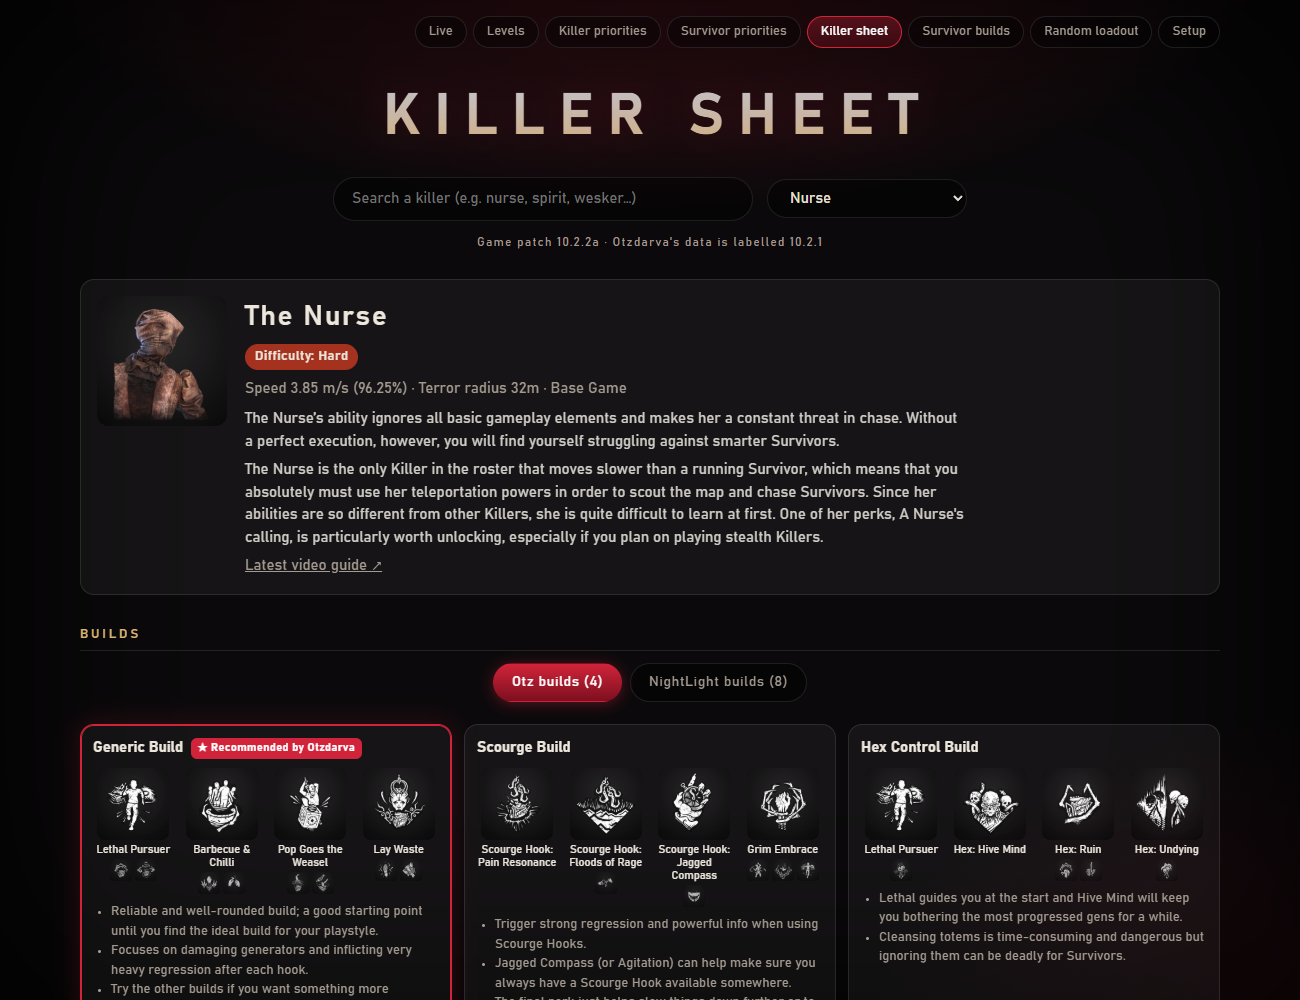
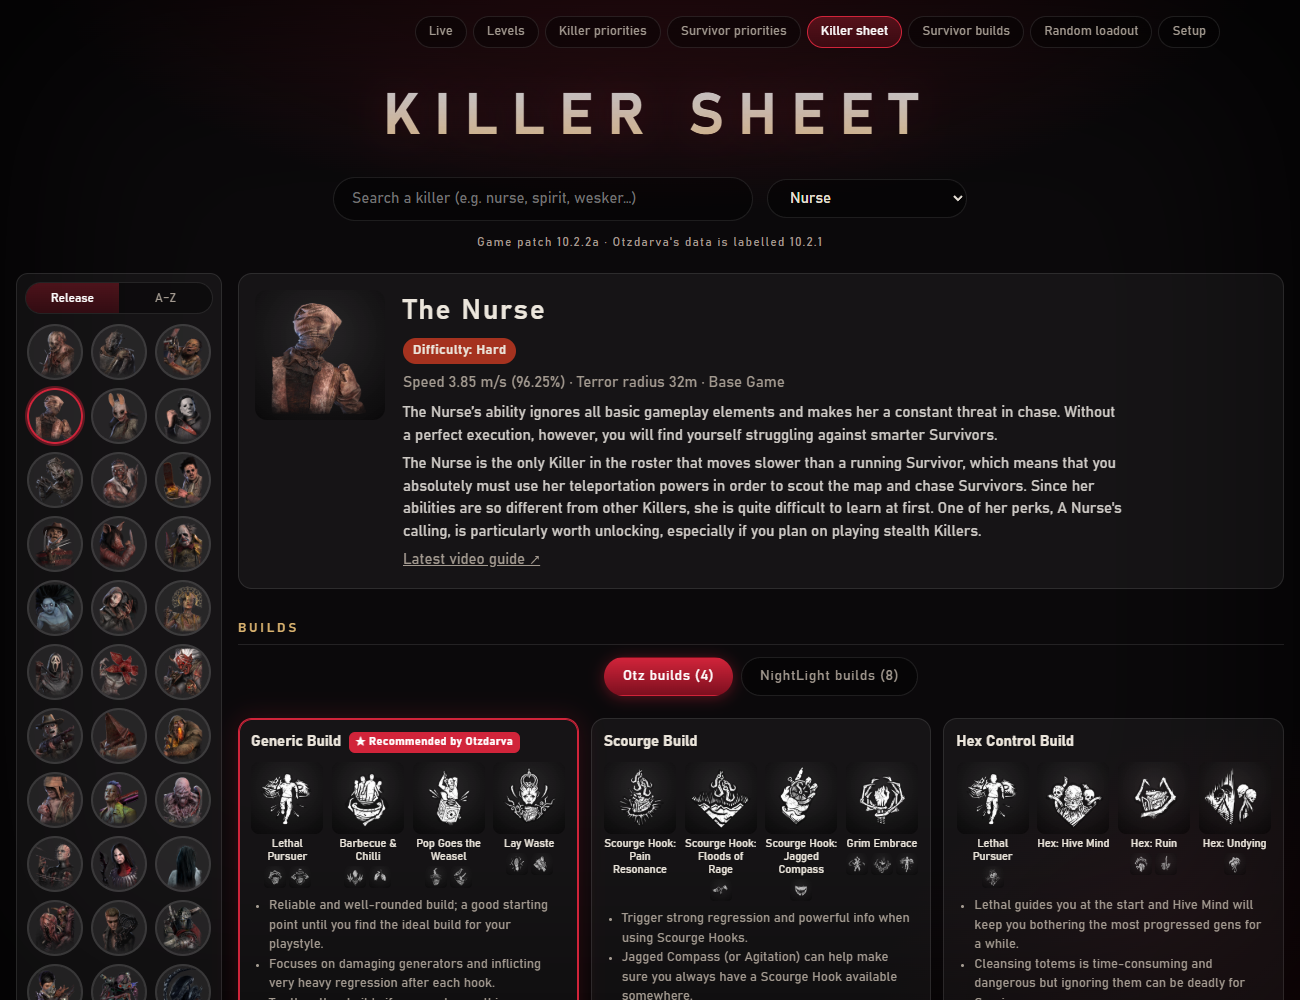
Killer sheet: sticky column of killer portraits and a sort switch
A column of killer heads stays on the left while the sheet scrolls (three per row,
click to open a killer), with a Release date / A-Z switch that also orders the
drop-down list; the choice is remembered. Under 900px the column becomes a
horizontally scrolling row. Screenshot refreshed.

Changed region(s): [[0.0, 0.279, 0.9846, 1.0], [0.1846, 0.62, 0.2462, 0.651]]

diff --git a/web/killer.html b/web/killer.html
@@ -64,6 +64,20 @@ h3{margin:28px 0 10px;font-size:19px;border-bottom:1px solid var(--border);paddi
 .src{color:var(--muted);font-size:12px;margin-top:30px;text-align:center}
 .src a{color:var(--muted)}
 .nav{display:flex;gap:6px;margin-left:auto}.nav a{color:var(--text);text-decoration:none;background:var(--panel);border:1px solid var(--border);border-radius:8px;padding:6px 10px;font-size:13px}.nav a:hover{border-color:var(--accent)}
+.seg{display:inline-flex;border:1px solid var(--border);border-radius:999px;overflow:hidden;background:#0006}
+.seg button{background:none;border:0;color:var(--muted);padding:6px 12px;font:inherit;font-size:12px;cursor:pointer}
+.seg button.on{color:#fff;background:linear-gradient(180deg,#d1243a55,#7d0f1f55)}
+.layout{display:grid;grid-template-columns:206px minmax(0,1fr);gap:16px;max-width:1380px;margin:0 auto;padding:0 16px;align-items:start}
+.layout main{max-width:none;margin:0;padding:0 0 40px;min-width:0}
+.side{position:sticky;top:10px;max-height:calc(100vh - 20px);overflow-y:auto;background:var(--panel);border:1px solid var(--border);border-radius:12px;padding:8px;scrollbar-width:thin}
+.side .seg{display:flex;width:100%;margin-bottom:8px}.side .seg button{flex:1;padding:6px 4px}
+.faces{display:grid;grid-template-columns:repeat(3,1fr);gap:4px}
+.face{background:none;border:0;padding:2px;cursor:pointer;border-radius:50%;line-height:0}
+.face img{width:100%;aspect-ratio:1;border-radius:50%;object-fit:cover;object-position:50% 18%;background:var(--panel2);border:2px solid var(--border);transition:.12s}
+.face:hover img{border-color:var(--gold);transform:scale(1.08)}
+.face.on img{border-color:var(--accent);box-shadow:0 0 0 2px #d1243a66}
+.face span{display:none}
+@media (max-width:900px){.layout{grid-template-columns:minmax(0,1fr)}.side{position:static;max-height:none;overflow:visible}.faces{display:flex;overflow-x:auto;gap:6px;padding-bottom:4px}.face{flex:none;width:50px}}
 </style>
 <link rel="stylesheet" href="theme.css">
 </head>
@@ -75,7 +89,13 @@ h3{margin:28px 0 10px;font-size:19px;border-bottom:1px solid var(--border);paddi
   <select id="sel"></select>
   <span class="patch" style="margin-left:0" id="patch"></span>
 </header>
+<div class="layout">
+<aside class="side">
+  <div class="seg" id="sortSeg"><button data-v="release" title="Release date">Release</button><button data-v="az" title="Alphabetical">A–Z</button></div>
+  <div class="faces" id="faces"></div>
+</aside>
 <main id="app"></main>
+</div>
 <div class="tip" id="tip"></div>
 <script>
 window.addEventListener("error",e=>{document.getElementById("app").innerHTML="<p class=\"empty\">Error: "+e.message+"</p>"});
@@ -169,13 +189,33 @@ ${esc(k.addons[i].desc)}">`).join("+")}</div></div>`).join("")}</div>`;
   h += `<p class="src">Sources: <a href="https://otzdarva-builds.com">otzdarva-builds.com</a> · <a href="https://otz-addon-tierlist.pages.dev">otz-addon-tierlist</a> · <a href="https://otzdarva.com/dbd/character-info">otzdarva.com</a></p>`;
   $("app").innerHTML = h;
 }
+let sortMode = "release";  // K is in release order (the order of the data); "az" sorts by name
+try { sortMode = localStorage.getItem("et-killer-sort") || sortMode; } catch(e){}
+const sortedK = () => sortMode === "az" ? K.slice().sort((a,b)=>a.short.localeCompare(b.short)) : K;
+function renderFaces(){
+  const cur = CUR && CUR.slug;
+  $("faces").innerHTML = sortedK().map(k=>`<button class="face${k.slug===cur?" on":""}" data-s="${esc(k.slug)}" title="${esc(k.name)}"><img referrerpolicy="no-referrer" loading="lazy" src="${esc(k.portrait)}" data-f="${esc(k.portrait2)}" alt=""><span>${esc(k.short)}</span></button>`).join("");
+  document.querySelectorAll("#sortSeg button").forEach(b=>b.classList.toggle("on", b.dataset.v===sortMode));
+  const on = document.querySelector(".face.on"), box = document.querySelector(".side");
+  if(on && box && getComputedStyle(box).position === "sticky") box.scrollTop = Math.max(0, on.offsetTop - box.clientHeight / 2);
+}
+function fillSelect(){
+  const cur = CUR ? CUR.slug : "";
+  $("sel").innerHTML = '<option value="">— Pick a killer —</option>' + sortedK().map(k=>`<option value="${k.slug}">${esc(k.short)}</option>`).join("");
+  $("sel").value = cur;
+}
 function select(slug){
   const k = K.find(x=>x.slug===slug); if(!k) return;
-  $("sel").value = slug; history.replaceState(null,"","#"+slug); render(k); window.scrollTo(0,0);
+  $("sel").value = slug; history.replaceState(null,"","#"+slug); render(k); renderFaces(); window.scrollTo(0,0);
 }
 function init(){
   $("patch").textContent = patchLabel(DATA);
-  $("sel").innerHTML = '<option value="">— Pick a killer —</option>' + K.map(k=>`<option value="${k.slug}">${esc(k.short)}</option>`).join("");
+  fillSelect(); renderFaces();
+  $("faces").addEventListener("click", e => { const b = e.target.closest(".face"); if(b) select(b.dataset.s); });
+  document.querySelectorAll("#sortSeg button").forEach(b => b.addEventListener("click", () => {
+    sortMode = b.dataset.v; try { localStorage.setItem("et-killer-sort", sortMode); } catch(e){}
+    fillSelect(); renderFaces();
+  }));
   $("sel").onchange = e => e.target.value && select(e.target.value);
   $("q").oninput = e => {
     const r = K.map(k=>[score(e.target.value,k),k]).filter(x=>x[0]>0).sort((a,b)=>b[0]-a[0]);
